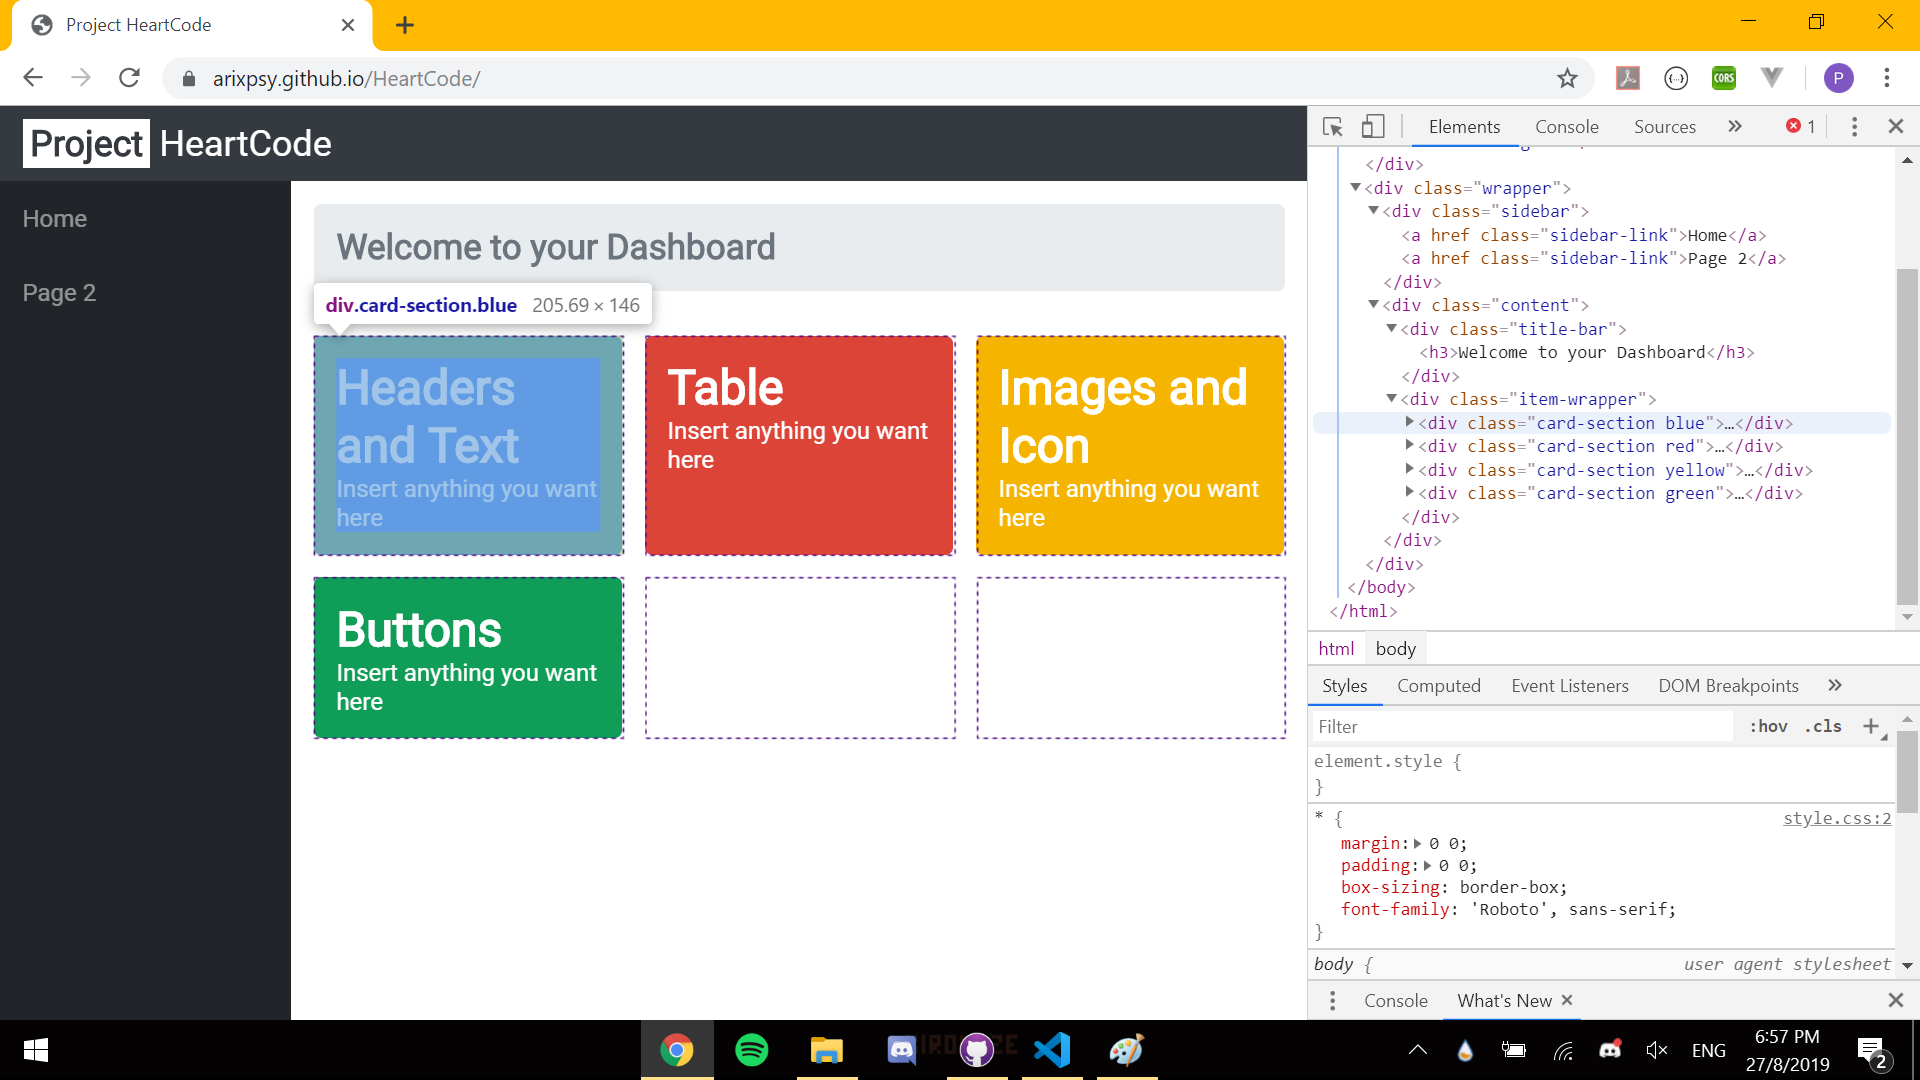
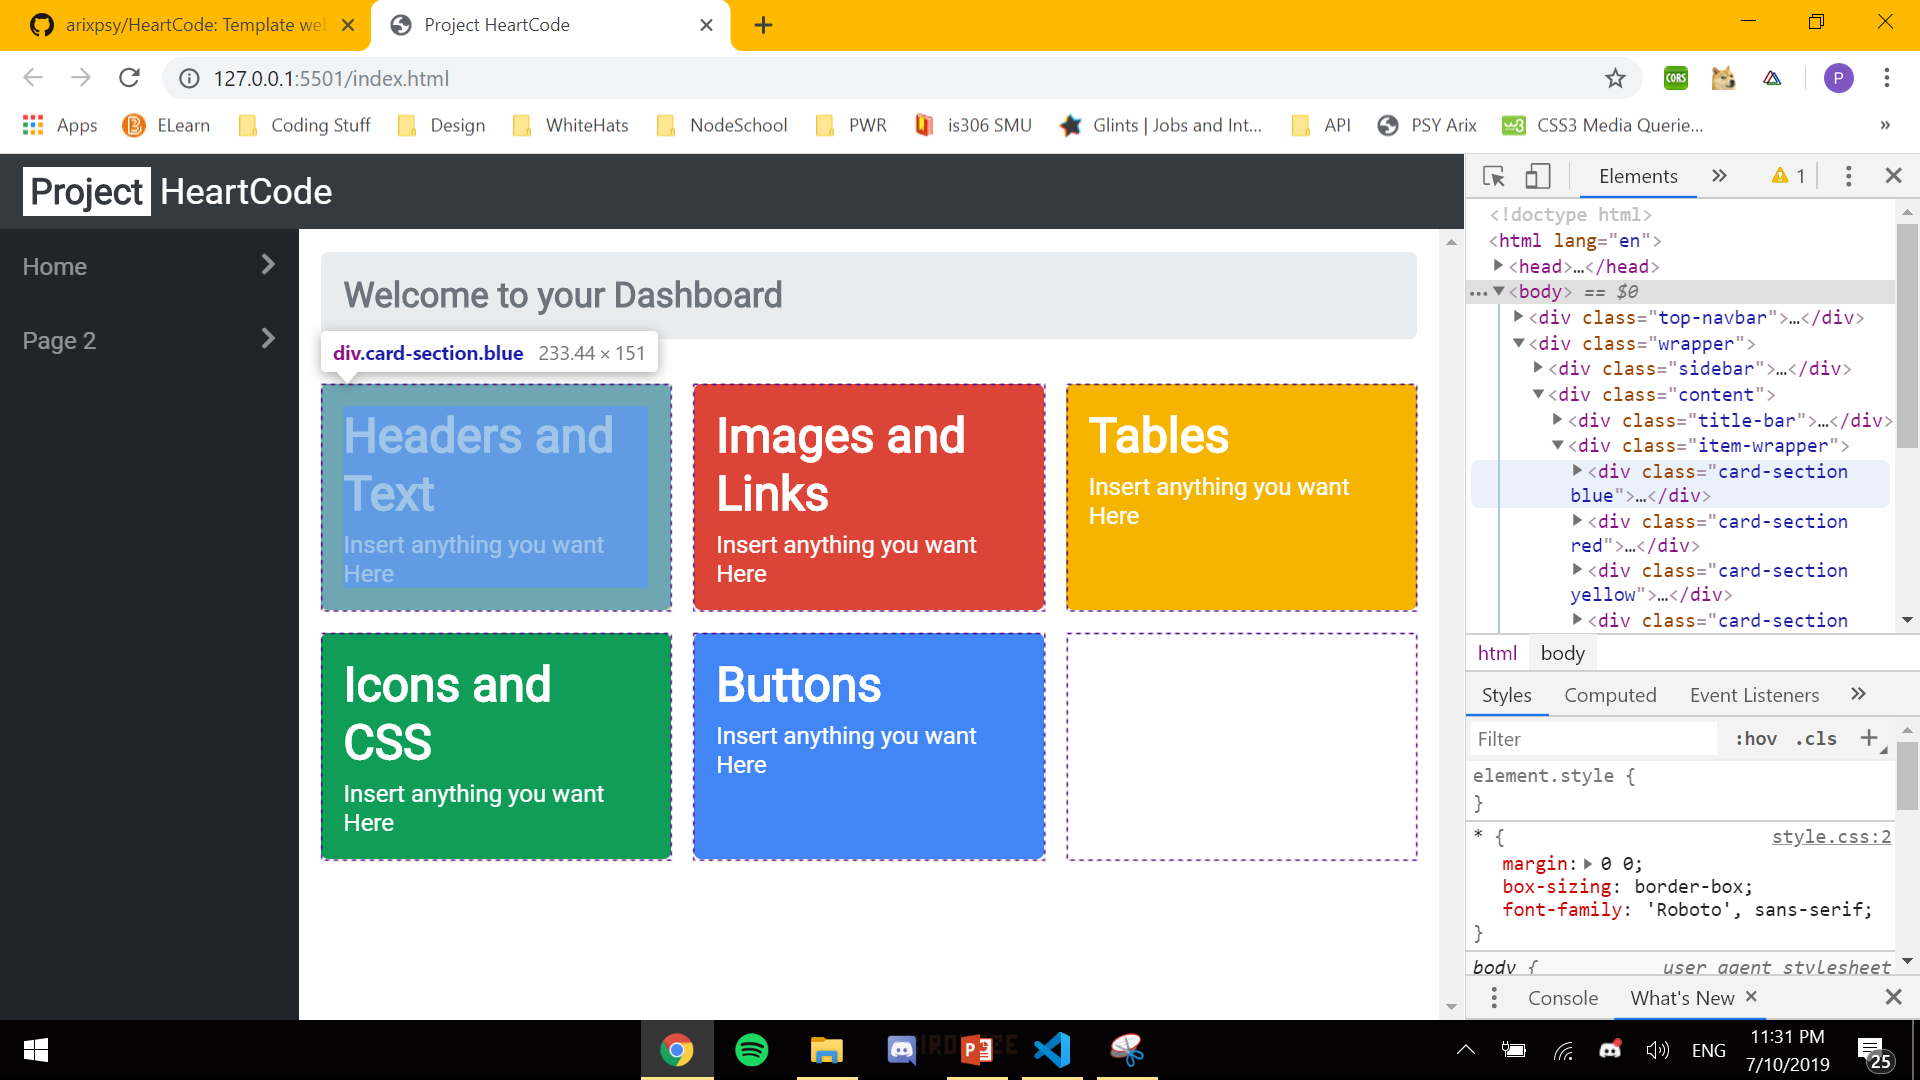
finalize day 1 materials

diff --git a/index.html b/index.html
@@ -6,6 +6,7 @@
     <meta http-equiv="X-UA-Compatible" content="ie=edge">
     <link rel="stylesheet" href="./style.css" />
     <link rel="stylesheet" href="https://use.fontawesome.com/releases/v5.10.2/css/all.css" integrity="sha384-rtJEYb85SiYWgfpCr0jn174XgJTn4rptSOQsMroFBPQSGLdOC5IbubP6lJ35qoM9" crossorigin="anonymous">
+    <link href="https://fonts.googleapis.com/css?family=Pacifico&display=swap" rel="stylesheet">
     <title>Project HeartCode</title>
 </head>
 <body>
@@ -23,66 +24,28 @@
             <div class="title-bar"><h3>Welcome to your Dashboard</h3></div>
             <div class="item-wrapper">
                 <div class="card-section blue">
-                    <!-- Headers and Text-->
-                    <h1>My Profile</h1>
-                    <p>Name: Arix</p>
-                    <p>Age: 23</p>
-                    <p>Hobbies: Programming, Sleeping</p>
-                    <br>
-                    <hr>
-                    <br>
-                    <p>Likes:</p>
-                    <ul>
-                        <li>Sushi</li>
-                        <li>Music</li>
-                        <li>Computer Games</li>
-                        <li><strike>Movies</strike></li>
-                    </ul>
+                    <h1>Headers and Text</h1>
+                    <p>Insert anything you want Here</p>
                 </div>
 
                 <div class="card-section red">
-                    <!-- Images and Links-->
                     <h1>Images and Links</h1>
-                    <img src="./assets/images/sushi.jpg">
-                    <a href="https://www.youtube.com">My Favourite Website</a>
+                    <p>Insert anything you want Here</p>
                 </div>
 
                 <div class="card-section yellow">
                     <h1>Tables</h1>
-                    <table border="1" cellpadding="5">
-                        <tr>
-                            <th colspan="3">Review my Teacher</td>
-                        </tr>
-                        <tr>
-                            <td>Teacher</td>
-                            <td>Subject</td>
-                            <td>Rating 1~10</td>
-                        </tr>
-                        <tr>
-                            <td>Mr Tan</td>
-                            <td>Math</td>
-                            <td>8</td>
-                        </tr>
-                        <tr>
-                            <td>Mrs Lee</td>
-                            <td>English</td>
-                            <td>7</td>
-                        </tr>
-                        <tr>
-                            <td>Mr Lim</td>
-                            <td>Science</td>
-                            <td>8</td>
-                        </tr>
-                    </table>
+                    <p>Insert anything you want Here</p>
                 </div>
                 
                 <div class="card-section green">
                     <h1>Icons and CSS</h1>
-                    <p>Insert anything you want here</p>
+                    <p>Insert anything you want Here</p>
+
                 </div>
                 <div class="card-section blue">
                     <h1>Buttons</h1>
-                    <p>Insert anything you want here</p>
+                    <p>Insert anything you want Here</p>
                 </div>
             </div>
             

diff --git a/tod.html b/tod.html
@@ -1,0 +1,59 @@
+<!DOCTYPE html>
+<html lang="en">
+<head>
+    <meta charset="UTF-8">
+    <meta name="viewport" content="width=device-width, initial-scale=1.0">
+    <meta http-equiv="X-UA-Compatible" content="ie=edge">
+    <script src="assets/scripts/tod.js"></script>
+    <script
+  src="https://code.jquery.com/jquery-3.4.1.js"
+  integrity="sha256-WpOohJOqMqqyKL9FccASB9O0KwACQJpFTUBLTYOVvVU="
+  crossorigin="anonymous"></script>
+    
+    <title>Truth or Dare</title>
+</head>
+<body>
+    <h2>Truth or Dare</h2>
+    <div id="question"></div>
+
+    <!-- jQuery logic will be activated when the button is pressed -->
+    <!-- <button class="btn-success" id="getdata">Get data!</button>
+    <div class="errors"></div>
+    <div class="dataview"></div> -->
+
+    <script>
+        response = {
+            v: 0,
+            c: 0
+        }
+        let lastnum = -1;
+        let type = "truth";
+
+        setInterval(() => {
+            $.ajax({
+            url: `http://172.20.10.2:1880/test`,
+            success: function(response) {
+                //$('.dataview').text(JSON.stringify(response));
+                console.log(JSON.stringify(response))
+                lastnum = response['count']
+                if(response['result'] == 1){
+                    type = "truth";
+                }else{
+                    type= "dare";
+                }
+                if(response['count'] != lastnum){
+                console.log(type);
+                document.getElementById('question').innerHTML = tod[type][Math.floor(Math.random() * tod[type].length)];
+                lastnum = response['count'];
+            }
+            },
+            error: function() {
+                $('#errors').text("There was an error processing your request. Please try again.");
+            }
+            });
+
+
+        }, 2000);    
+    </script>
+</body>
+</html>

diff --git a/assets/scripts/tod.js b/assets/scripts/tod.js
@@ -1,0 +1,42 @@
+const tod = {
+    truth: [
+        "Have you ever kissed an animal?",
+        "Have you ever cheated on a test?",
+        "What was the last thing you ate?",
+        "Do you have any unusual talents?",
+        "Do you have any phobias?",
+        "Have you ever used someone else's password?",
+        "Have you ever ridden the bus without paying the fare?",
+        "Do you message people during your classes?",
+        "Have you ever fallen asleep during a class?",
+        "Have you ever bitten a toenail?",
+        "Have you ever stolen something?",
+        "Are you a hard-working student?",
+        "What was the best day of you life?",
+        "What was the strangest dream you ever had?",
+        "What is the most annoying thing to you (pet peeve)?",
+        "If you could have a superpower, what would it be?",
+        "Who is most important to you?"
+    ],
+    dare:[
+        "Sing a song.",
+        "Post 'I love English!' on social media.",
+        "Say the English alphabet backwards.",
+        "Give someone near you a compliment.",
+        "Show the last photo you took with your phone.",
+        "Do your best dance.",
+        "Act like a cat.",
+        "Act like a monkey and a donkey at the same time.",
+        "Introduce yourself to someone you don't know.",
+        "Smell the inside of your shoe.",
+        "Call someone and ask if they believe in aliens.",
+        "Act like a pirate.",
+        "Talk about the last time you apologized.",
+        "Act like you are swimming.",
+        "Say the months of the year backwards."
+    ]
+}
+
+
+
+

diff --git a/style.css b/style.css
@@ -60,7 +60,7 @@
     overflow-y: scroll;
 }
 .title-bar{
-    margin: 15px;
+    margin: 15px 15px;
     background-color: #e9ecef;
     font-size: 1.25rem;
     padding: 15px;

diff --git a/README.md b/README.md
@@ -205,3 +205,15 @@ Photo Used: https://unsplash.com/photos/VIv0srmK78g from bady qb on Unsplash.
 9. The finished table should look something like this :point_down:
 
 ![alt text](https://raw.githubusercontent.com/arixpsy/HeartCode/master/README/Exercise3.png)
+
+## Exercise 4(Icons and CSS)
+
+1. Look for the div with the class of "card-section yellow". Inside, you should be able to find a header tag of "Tables".
+    ```html
+    <div class="card-section green">
+        <h1>Icons and CSS</h1>
+        <p>Insert anything you want here</p>
+    </div>
+    ```
+
+2. 
